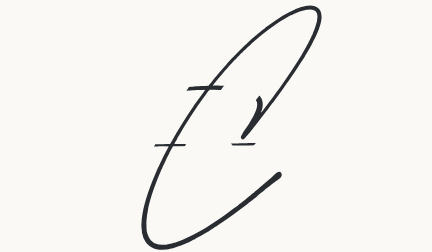
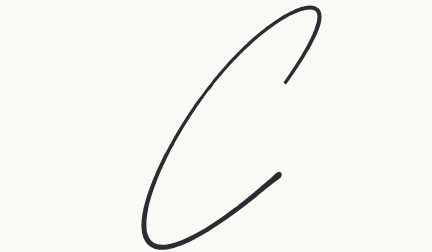
fix: isolate signature strokes at intersections

Changed region(s): [[0.5417, 0.3333, 0.662, 0.5833], [0.4213, 0.3333, 0.5417, 0.3611], [0.3611, 0.5556, 0.4514, 0.5833]]

diff --git a/tests/home.test.ts b/tests/home.test.ts
@@ -109,7 +109,7 @@ test("signature writes once when scrolled into view", async ({ page }, testInfo)
   await expect(signature).toHaveAttribute("data-state", "running");
   await expect
     .poll(() => signature.evaluate((element) => element.getAnimations({ subtree: true }).length))
-    .toBe(4);
+    .toBe(6);
   await page.waitForTimeout(700);
   await signature.screenshot({ path: testInfo.outputPath("signature-writing.png") });
   await expect(signature).toHaveAttribute("data-state", "complete");
@@ -130,4 +130,24 @@ test("signature stays complete with reduced motion", async ({ page }) => {
   expect(
     await signature.evaluate((element) => element.getAnimations({ subtree: true }).length),
   ).toBe(0);
+});
+
+test("signature crossings do not reveal later strokes", async ({ browser }) => {
+  const context = await browser.newContext({ javaScriptEnabled: false });
+  const page = await context.newPage();
+  await page.goto("http://127.0.0.1:4321/");
+  const signature = page.getByRole("img", { name: "Caven signature", exact: true });
+  await signature.evaluate((element) => element.setAttribute("data-state", "running"));
+  for (const time of [700, 1100]) {
+    await signature.evaluate((element, time) => {
+      for (const animation of element.getAnimations({ subtree: true })) {
+        animation.pause();
+        animation.currentTime = time;
+      }
+    }, time);
+    await expect(signature).toHaveScreenshot(`signature-crossing-${time}.png`, {
+      animations: "allow",
+    });
+  }
+  await context.close();
 });

diff --git a/src/styles/global.css b/src/styles/global.css
@@ -494,3 +494,24 @@ h3 {
     animation: none !important;
   }
 }
+
+/* Show the untouched outline at rest; isolate crossings only during writing. */
+.signature-c-part {
+  display: none;
+}
+.signature[data-state="pending"] .signature-c-part,
+.signature[data-state="running"] .signature-c-part {
+  display: inline;
+}
+.signature[data-state="pending"] .signature-c-static,
+.signature[data-state="running"] .signature-c-static {
+  display: none;
+}
+@media (prefers-reduced-motion: reduce) {
+  .signature .signature-c-part {
+    display: none !important;
+  }
+  .signature .signature-c-static {
+    display: inline !important;
+  }
+}

diff --git a/playwright.config.ts b/playwright.config.ts
@@ -2,6 +2,7 @@ import { defineConfig, devices } from "@playwright/test";
 
 export default defineConfig({
   testDir: "./tests",
+  snapshotPathTemplate: "{testDir}/{testFilePath}-snapshots/{arg}-{projectName}{ext}",
   use: { baseURL: "http://127.0.0.1:4321", trace: "retain-on-failure" },
   projects: [
     { name: "desktop", use: { ...devices["Desktop Chrome"] } },

diff --git a/docs/layout-review.md b/docs/layout-review.md
@@ -146,4 +146,4 @@ and any adjustments here before treating the layout as approved.
 
 ## Signature animation
 
-The footer uses inline SVG contours with separate animated stroke masks for the C, a, v, and en ligature. The original static SVG remains available as a standalone asset. IntersectionObserver starts a single 2.65-second writing sequence when half the signature enters the viewport; completion reveals the unmasked original contours and never replays. Reduced-motion preferences (including changes during playback) show the full signature immediately. Without JavaScript or IntersectionObserver, the SVG stays fully visible. No animation library or font dependency is required.
+The footer uses inline SVG contours with separate animated stroke masks for the C, a, v, and en ligature. The C is partitioned into its main stroke, return loop, and horizontal finish so crossings cannot reveal later strokes early. The original static SVG remains available as a standalone asset. IntersectionObserver starts a single 2.65-second writing sequence when half the signature enters the viewport; completion reveals the unmasked original contours and never replays. Reduced-motion preferences (including changes during playback) show the full signature immediately. Without JavaScript or IntersectionObserver, the SVG stays fully visible. No animation library or font dependency is required.
